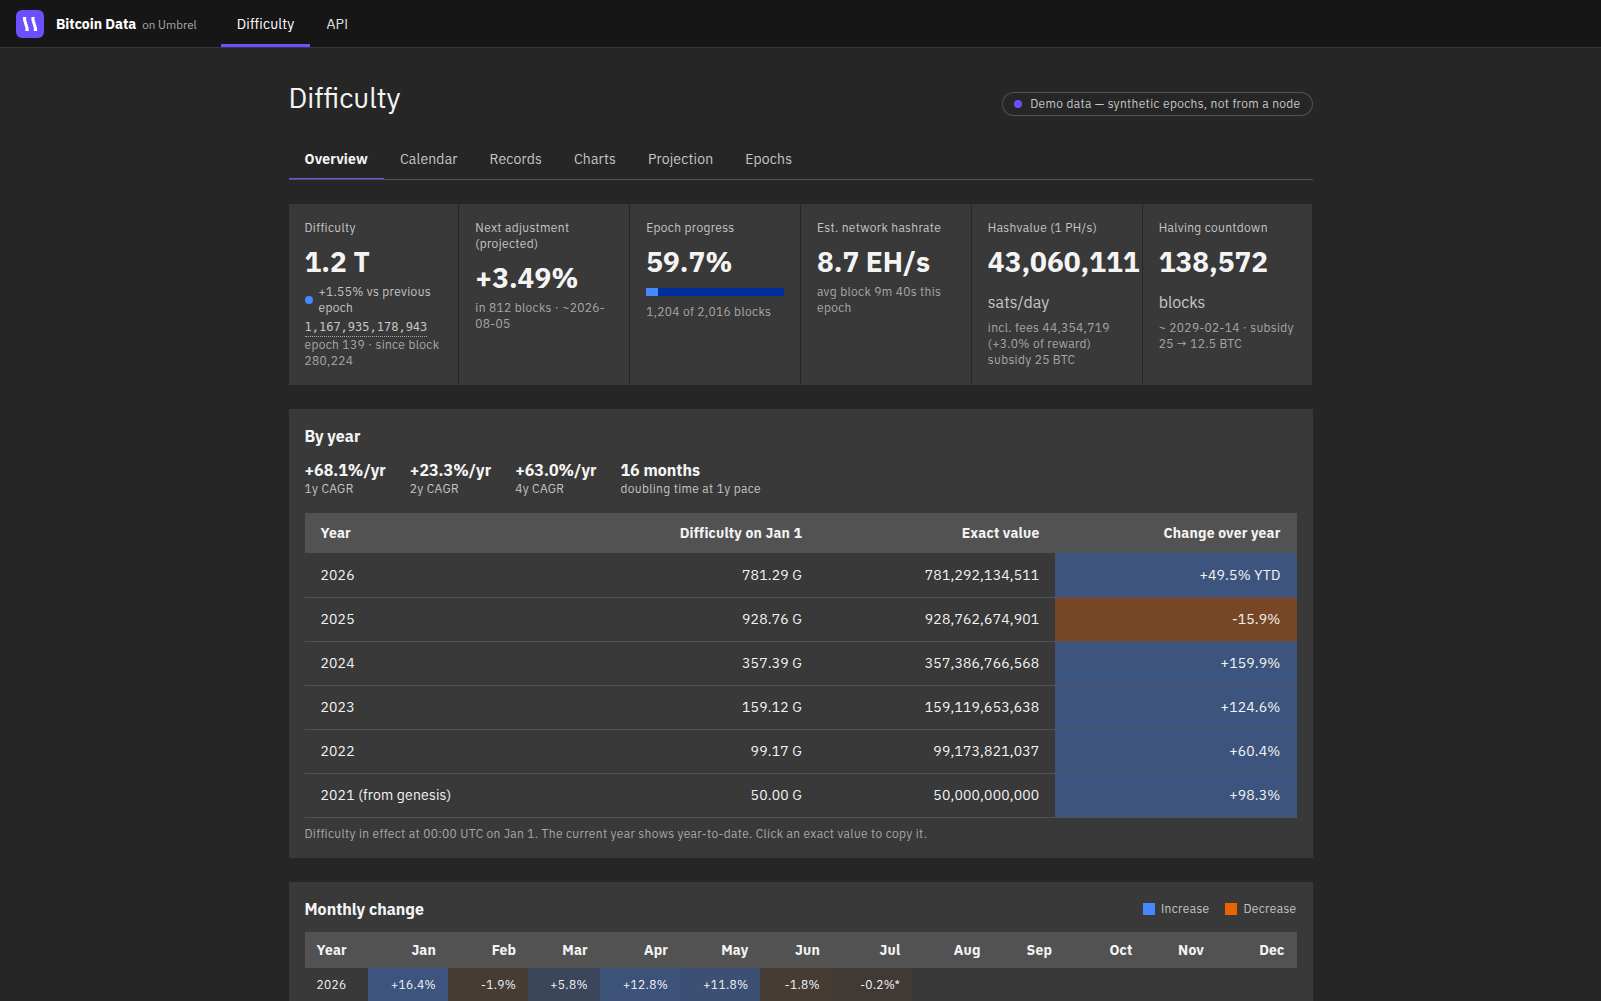
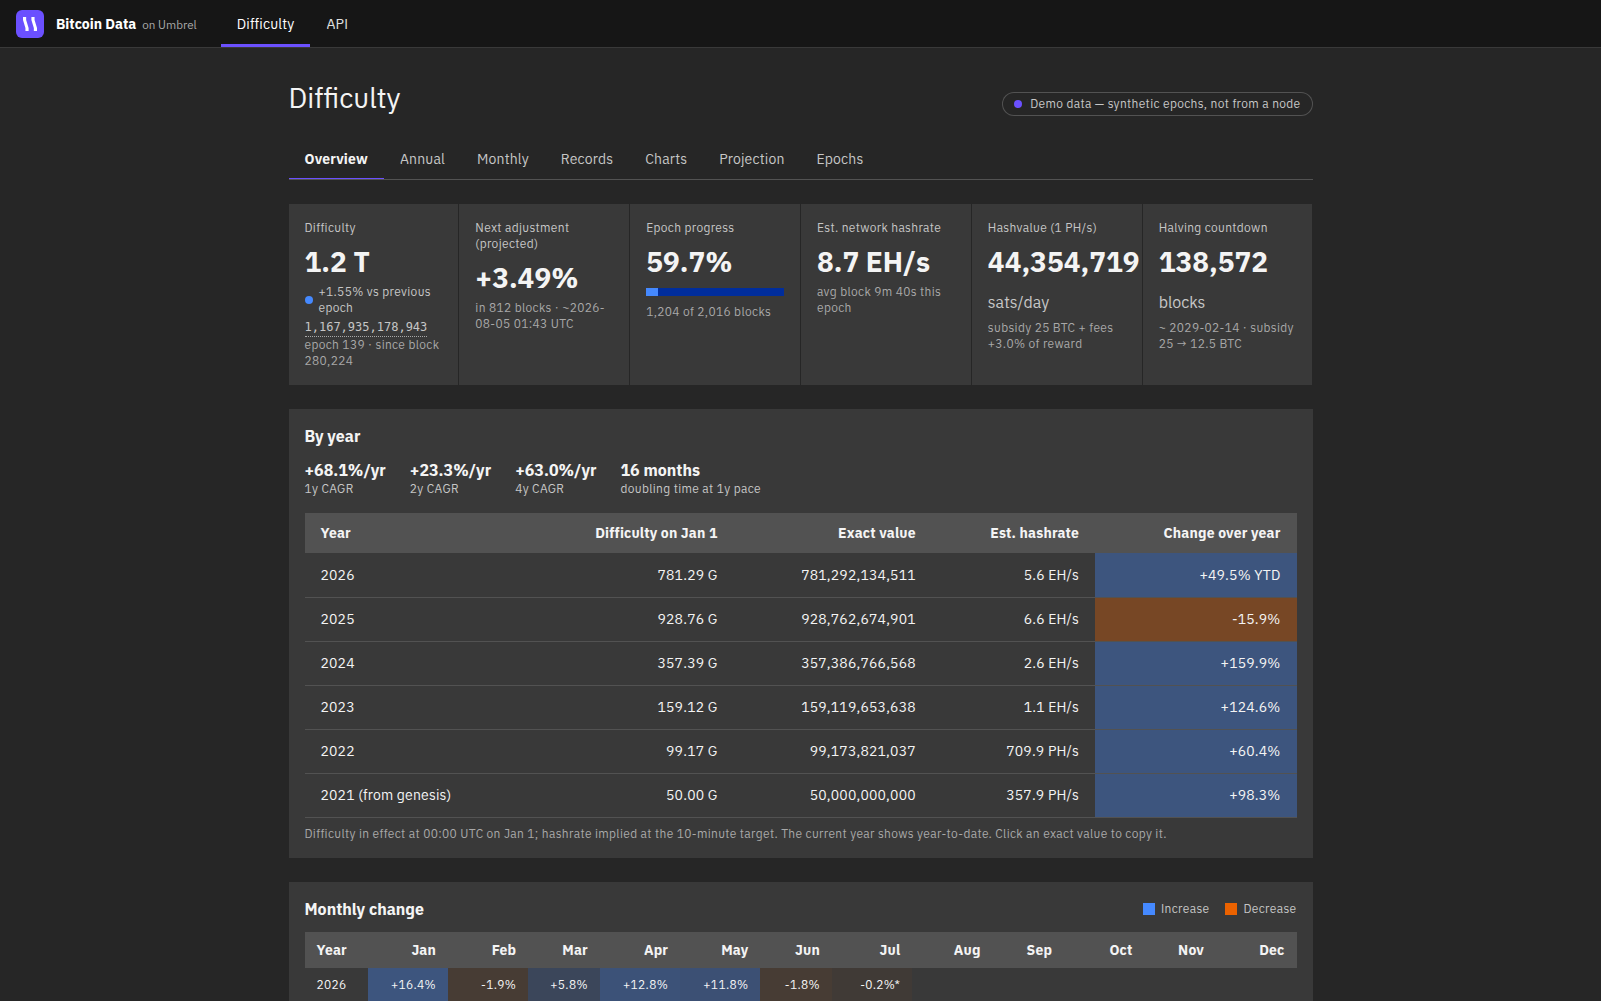
Polish: exact retarget time, fees-first hashvalue, ATH drought, annual hashrate
- Next-adjustment tile shows the projected exact time (UTC), not just the date.
- Hashvalue tile leads with the fees-inclusive value (subsidy-only shown only
  while the current epoch's fees are still being read); epoch-table column is
  a bare full integer labeled "Hashvalue (sats)" (historical = subsidy only).
- Records adds the longest stretch without a new difficulty ATH, incl. the
  ongoing-record case.
- By year adds implied hashrate (difficulty at the 10-minute target).
- Nav splits Calendar into Annual and Monthly tabs.
- Drop the "· now" suffix on epoch ids (End column already says in progress).

diff --git a/image-braiins-bitcoin-data/webui.py b/image-braiins-bitcoin-data/webui.py
@@ -734,7 +734,8 @@ footer { margin-top: var(--spacing-07); font: 400 12px/1.3333 var(--font-sans);
 
   <nav class="pagenav" id="pagenav" aria-label="Sections">
     <a href="#overview" class="active">Overview</a>
-    <a href="#calendar">Calendar</a>
+    <a href="#annual">Annual</a>
+    <a href="#monthly">Monthly</a>
     <a href="#records">Records</a>
     <a href="#charts">Charts</a>
     <a href="#projection">Projection</a>
@@ -761,25 +762,26 @@ footer { margin-top: var(--spacing-07); font: 400 12px/1.3333 var(--font-sans);
       <div class="sub" id="t-hash-sub">current epoch average</div></div>
     <div class="tile"><div class="label">Hashvalue (1 PH/s)</div>
       <div class="value" id="t-hv">—<small>sats/day</small></div>
-      <div class="sub" id="t-hv-fees"></div>
-      <div class="sub" id="t-hv-sub">subsidy only, fees excluded</div></div>
+      <div class="sub" id="t-hv-sub"></div></div>
     <div class="tile"><div class="label">Halving countdown</div>
       <div class="value" id="t-halv">—<small>blocks</small></div>
       <div class="sub" id="t-halv-sub"></div></div>
   </div>
   </section>
 
-  <section id="calendar">
+  <section id="annual">
   <div class="card">
     <div class="cardhead"><h3>By year</h3></div>
     <div class="statrow" id="growth"></div>
     <div class="tablewrap"><table id="years">
-      <thead><tr><th>Year</th><th>Difficulty on Jan 1</th><th>Exact value</th><th>Change over year</th></tr></thead>
+      <thead><tr><th>Year</th><th>Difficulty on Jan 1</th><th>Exact value</th><th>Est. hashrate</th><th>Change over year</th></tr></thead>
       <tbody></tbody>
     </table></div>
-    <p class="note">Difficulty in effect at 00:00 UTC on Jan 1. The current year shows year-to-date. Click an exact value to copy it.</p>
+    <p class="note">Difficulty in effect at 00:00 UTC on Jan 1; hashrate implied at the 10-minute target. The current year shows year-to-date. Click an exact value to copy it.</p>
   </div>
+  </section>
 
+  <section id="monthly">
   <div class="card">
     <div class="cardhead"><h3>Monthly change</h3>
       <span class="key"><span><i class="pos"></i>Increase</span><span><i class="neg"></i>Decrease</span></span></div>
@@ -802,6 +804,7 @@ footer { margin-top: var(--spacing-07); font: 400 12px/1.3333 var(--font-sans);
       </table></div>
     </div>
     <p class="note" id="streaks"></p>
+    <p class="note" id="ath"></p>
   </div>
   </section>
 
@@ -890,6 +893,9 @@ function fmtPct(x, d) {
 function fmtInt(x) { return x == null ? "—" : x.toLocaleString("en-US"); }
 function fmtDate(ts) {
   return ts == null ? "—" : new Date(ts * 1000).toISOString().slice(0, 10);
+}
+function fmtDateTime(ts) {
+  return ts == null ? "—" : new Date(ts * 1000).toISOString().slice(0, 16).replace("T", " ") + " UTC";
 }
 function fmtDur(s) {
   if (s == null) return "—";
@@ -987,23 +993,23 @@ function renderTiles() {
   set("t-diff-sub", s.epoch != null ? "epoch " + s.epoch + " · since block " + fmtInt(s.epoch * 2016) : "");
   set("t-proj", fmtPct(s.projected_change, 2));
   set("t-proj-sub", s.remaining != null
-    ? "in " + fmtInt(s.remaining) + " blocks · ~" + fmtDate(s.eta) : "");
+    ? "in " + fmtInt(s.remaining) + " blocks · ~" + fmtDateTime(s.eta) : "");
   set("t-prog", s.progress != null ? (100 * s.progress).toFixed(1) + "%" : "—");
   document.getElementById("t-prog-bar").style.width = s.progress != null ? (100 * s.progress) + "%" : "0";
   set("t-prog-sub", s.elapsed != null ? fmtInt(s.elapsed) + " of 2,016 blocks" : "");
   set("t-hash", fmtHash(s.hashrate));
   set("t-hash-sub", s.avg_interval != null
     ? "avg block " + fmtInterval(s.avg_interval) + " this epoch" : "current epoch average");
+  // fees-inclusive is the headline; subsidy-only only bridges the fee backfill
+  const hvVal = s.hashvalue_with_fees != null ? s.hashvalue_with_fees : s.hashvalue;
   const hv = document.getElementById("t-hv");
   hv.textContent = "";
-  hv.appendChild(document.createTextNode(s.hashvalue != null ? fmtFullInt(s.hashvalue) : "—"));
+  hv.appendChild(document.createTextNode(hvVal != null ? fmtFullInt(hvVal) : "—"));
   const unit = document.createElement("small"); unit.textContent = " sats/day";
   hv.appendChild(unit);
-  set("t-hv-sub", s.subsidy != null
-    ? "subsidy " + s.subsidy + " BTC" : "subsidy only, fees excluded");
-  set("t-hv-fees", s.hashvalue_with_fees != null
-    ? "incl. fees " + fmtFullInt(s.hashvalue_with_fees) +
-      " (" + fmtPct(s.fees_pct_of_reward, 1) + " of reward)" : "");
+  set("t-hv-sub", s.hashvalue_with_fees != null
+    ? "subsidy " + s.subsidy + " BTC + fees " + fmtPct(s.fees_pct_of_reward, 1) + " of reward"
+    : (s.subsidy != null ? "subsidy only — reading this epoch's fees…" : ""));
   const halv = document.getElementById("t-halv");
   halv.textContent = "";
   halv.appendChild(document.createTextNode(s.halving_blocks != null ? fmtInt(s.halving_blocks) : "—"));
@@ -1032,7 +1038,7 @@ function renderRecords() {
       c1.appendChild(dot);
       c1.appendChild(document.createTextNode(fmtPct(r.change)));
       const c2 = document.createElement("td");
-      c2.textContent = String(r.epoch) + (r.current ? " · now" : "");
+      c2.textContent = String(r.epoch);
       const c3 = document.createElement("td"); c3.textContent = fmtDate(r.start_time);
       tr.append(c1, c2, c3);
       tb.appendChild(tr);
@@ -1052,6 +1058,25 @@ function renderRecords() {
     "Current streak: " + cur + " consecutive " + (prevSign >= 0 ? "increases" : "decreases") +
     ". Record: " + best + " consecutive increases, ending " + fmtDate(bestEnd.start_time) +
     ". The in-progress epoch counts — its adjustment was fixed at the last retarget.";
+  // longest stretch without a new all-time-high difficulty
+  let ath = -Infinity, lastAth = null, rec = 0, recFrom = null, recTo = null;
+  for (const r of S.rows) {
+    if (r.difficulty > ath) {
+      ath = r.difficulty;
+      if (lastAth != null && r.start_time - lastAth > rec) {
+        rec = r.start_time - lastAth; recFrom = lastAth; recTo = r.start_time;
+      }
+      lastAth = r.start_time;
+    }
+  }
+  const curGap = tipTime() - lastAth;
+  const days = t => Math.round(t / 86400) + " days";
+  document.getElementById("ath").textContent = curGap > rec
+    ? "Longest wait for a new difficulty ATH: " + days(curGap) +
+      " — ongoing since " + fmtDate(lastAth) + ", an all-time record."
+    : "Longest wait for a new difficulty ATH: " + days(rec) +
+      " (" + fmtDate(recFrom) + " → " + fmtDate(recTo) + "). Currently " +
+      days(curGap) + " since the last ATH.";
 }
 
 // -- growth: CAGR over trailing windows + doubling time -------------------------
@@ -1153,6 +1178,9 @@ function renderCalendar() {
     exact.title = "Click to copy " + Math.round(start);
     exact.addEventListener("click", () => copyText(String(Math.round(start)), exact));
     tr.appendChild(exact);
+    const hr = document.createElement("td");
+    hr.textContent = fmtHash(start * 4294967296 / 600);  // implied by difficulty
+    tr.appendChild(hr);
     const ch = document.createElement("td");
     changeCell(ch, end / start - 1, ytd ? " YTD" : "");
     tr.appendChild(ch);
@@ -1396,7 +1424,7 @@ function drawAdj() {
 
 // -- table ---------------------------------------------------------------------
 const COLS = [
-  { key: "epoch", label: "Epoch", fmt: r => String(r.epoch) + (r.current ? " · now" : "") },
+  { key: "epoch", label: "Epoch", fmt: r => String(r.epoch) },
   { key: "start_height", label: "Start height", fmt: r => fmtInt(r.start_height) },
   { key: "start_time", label: "Start (UTC)", fmt: r => fmtDate(r.start_time) },
   { key: "end_time", label: "End (UTC)", fmt: r => r.current ? "in progress" : fmtDate(r.end_time) },
@@ -1405,7 +1433,7 @@ const COLS = [
   { key: "difficulty", label: "Difficulty", fmt: r => fmtCompact(r.difficulty, 2) },
   { key: "change", label: "Change", fmt: null },   // rendered with a direction dot
   { key: "hashrate", label: "Est. hashrate", fmt: r => fmtHash(r.hashrate) },
-  { key: "hashvalue", label: "Hashvalue", fmt: r => fmtCompact(r.hashvalue, 1) + " sats" },
+  { key: "hashvalue", label: "Hashvalue (sats)", fmt: r => fmtFullInt(r.hashvalue) },
 ];
 function durOf(r) {
   return r.avg_interval != null && r.blocks ? r.avg_interval * r.blocks : null;
